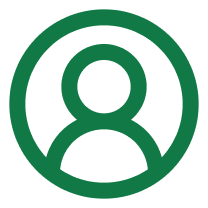
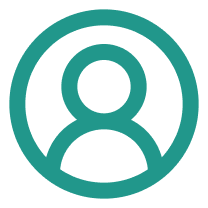
Dropdown Menu Edit

diff --git a/src/components/layout/HeaderComponent.jsx b/src/components/layout/HeaderComponent.jsx
@@ -1,4 +1,4 @@
-import React from 'react';
+import React, { useState } from 'react'; // useState 추가
 import './HeaderComponent.css';
 import ChickLoge from '../../assets/chick_text.png';
 import SearchIcon from '../../assets/search-icon.png';
@@ -6,8 +6,22 @@ import ChatbotIcon from '../../assets/chatbot-icon.png';
 import Dropdown from '../../assets/dropdown-icon.png';
 import { Link } from "react-router-dom";
 
-
 const HeaderComponent = () => {
+  const [isDropdownVisible, setDropdownVisible] = useState(false); // 드롭다운 상태 추가
+
+  const toggleDropdown = () => {
+    setDropdownVisible(!isDropdownVisible); // 드롭다운 토글 함수
+  };
+
+  const renderDropdownMenu = () => {
+    return (
+      <ul className="dropdown-menu">
+        <li className="dropdown-list"><Link to="/login">로그인</Link></li>
+        <li className="dropdown-list"><Link to="/join">회원가입</Link></li>
+      </ul>
+    );
+  };
+
   return (
     <header className="top-bar">
       <div className="logo">
@@ -18,22 +32,28 @@ const HeaderComponent = () => {
       <nav className="header-bar">
         <ul className="header-list">
           <Link to="/recipesearch">
-            <li className="header-item"><img src={SearchIcon} alt="Search Icon" className="search-icon" />레시피 검색</li>
+            <li className="header-item">
+              <img src={SearchIcon} alt="Search Icon" className="search-icon" />레시피 검색
+            </li>
           </Link>
           <div className="vertical-bar"></div>
-          {/* <Link to="/chatbot"> */}
-            <li className="header-item"><img src={ChatbotIcon} alt="Chatbot Icon" className="chatbot-icon" />나만의 영양사</li>          
-          {/* </Link> */}
+          <li className="header-item">
+            <img src={ChatbotIcon} alt="Chatbot Icon" className="chatbot-icon" />나만의 영양사
+          </li>
           <div className="vertical-bar"></div>
-          <li className="dropdown-container">
+          <li className="dropdown-container" onClick={toggleDropdown}>
             <img src={Dropdown} alt="Dropdown" className="dropdown-icon" />
-            {/* <div className={`dropdown-menu ${isDropdownVisible ? "show" : ""}`}>{renderDropdownMenu()}</div> */}
           </li>
         </ul>
       </nav>
+      {/* 드롭다운 메뉴를 헤더 아래에 위치시킴 */}
+      {isDropdownVisible && (
+        <div className="dropdown-menu-container">
+          {renderDropdownMenu()}
+        </div>
+      )}
     </header>
   );
 };
 
 export default HeaderComponent;
-

diff --git a/src/components/layout/HeaderComponent.css b/src/components/layout/HeaderComponent.css
@@ -43,7 +43,7 @@ a {
   align-items: center; /* 세로 중앙 정렬 */
   margin-left: 50px; /* 왼쪽 마진 추가 */
   margin-right: 50px; /* 오른쪽 마진 추가 */
-  color: #117945;
+  color: #21978B;
   font-weight: 700;
   font-size: 20px;
 }
@@ -64,10 +64,51 @@ a {
 .dropdown-icon {
   height: 38px; /* 드롭다운 아이콘 크기 조정 */
   margin-left: 32px; /* 드롭다운 아이콘 왼쪽 마진 추가 */
+  cursor: pointer;
 }
 
 .vertical-bar {
   width: 2px; /* 바의 너비 */
-  background-color: #117945; /* 바의 색상 */
+  background-color: #21978B; /* 바의 색상 */
   height: 40px; /* 바의 높이 */
+}
+
+
+
+.dropdown-menu-container {
+  position: absolute; /* 절대 위치로 설정하여 헤더 아래에 표시 */
+  top: 84px; /* 헤더의 높이에 따라 조정 */
+  right: 0; /* 오른쪽 정렬 */
+  margin-right: 32px;
+  z-index: 1; /* 다른 요소 위에 표시 */
+}
+
+.dropdown-menu {
+  list-style: none;
+  margin: 0; /* 기본 마진 제거 */
+  min-width: 175px;
+}
+
+.dropdown-list {
+  border-top: none; /* 상단 테두리 제거 */
+  border-left: #21978B solid 2px;
+  border-right: #21978B solid 2px;
+  border-bottom: #21978B solid 2px; /* 하단 테두리 추가 */
+  padding: 12px 28px 12px 28px; /* 내부 패딩 추가 */
+  font-size: 18px;
+  text-align: center;
+}
+
+.dropdown-list:first-child {
+  border-top: #21978B solid 2px; /* 첫 번째 항목만 상단 테두리 추가 */
+}
+
+.dropdown-list a {
+  color: #21978B; /* 링크 색상 */
+  text-decoration: none; /* 밑줄 제거 */
+  font-weight: 550;
+}
+
+.dropdown-list a:hover {
+  color: black; /* 호버 시 색상 변경 */
 }
